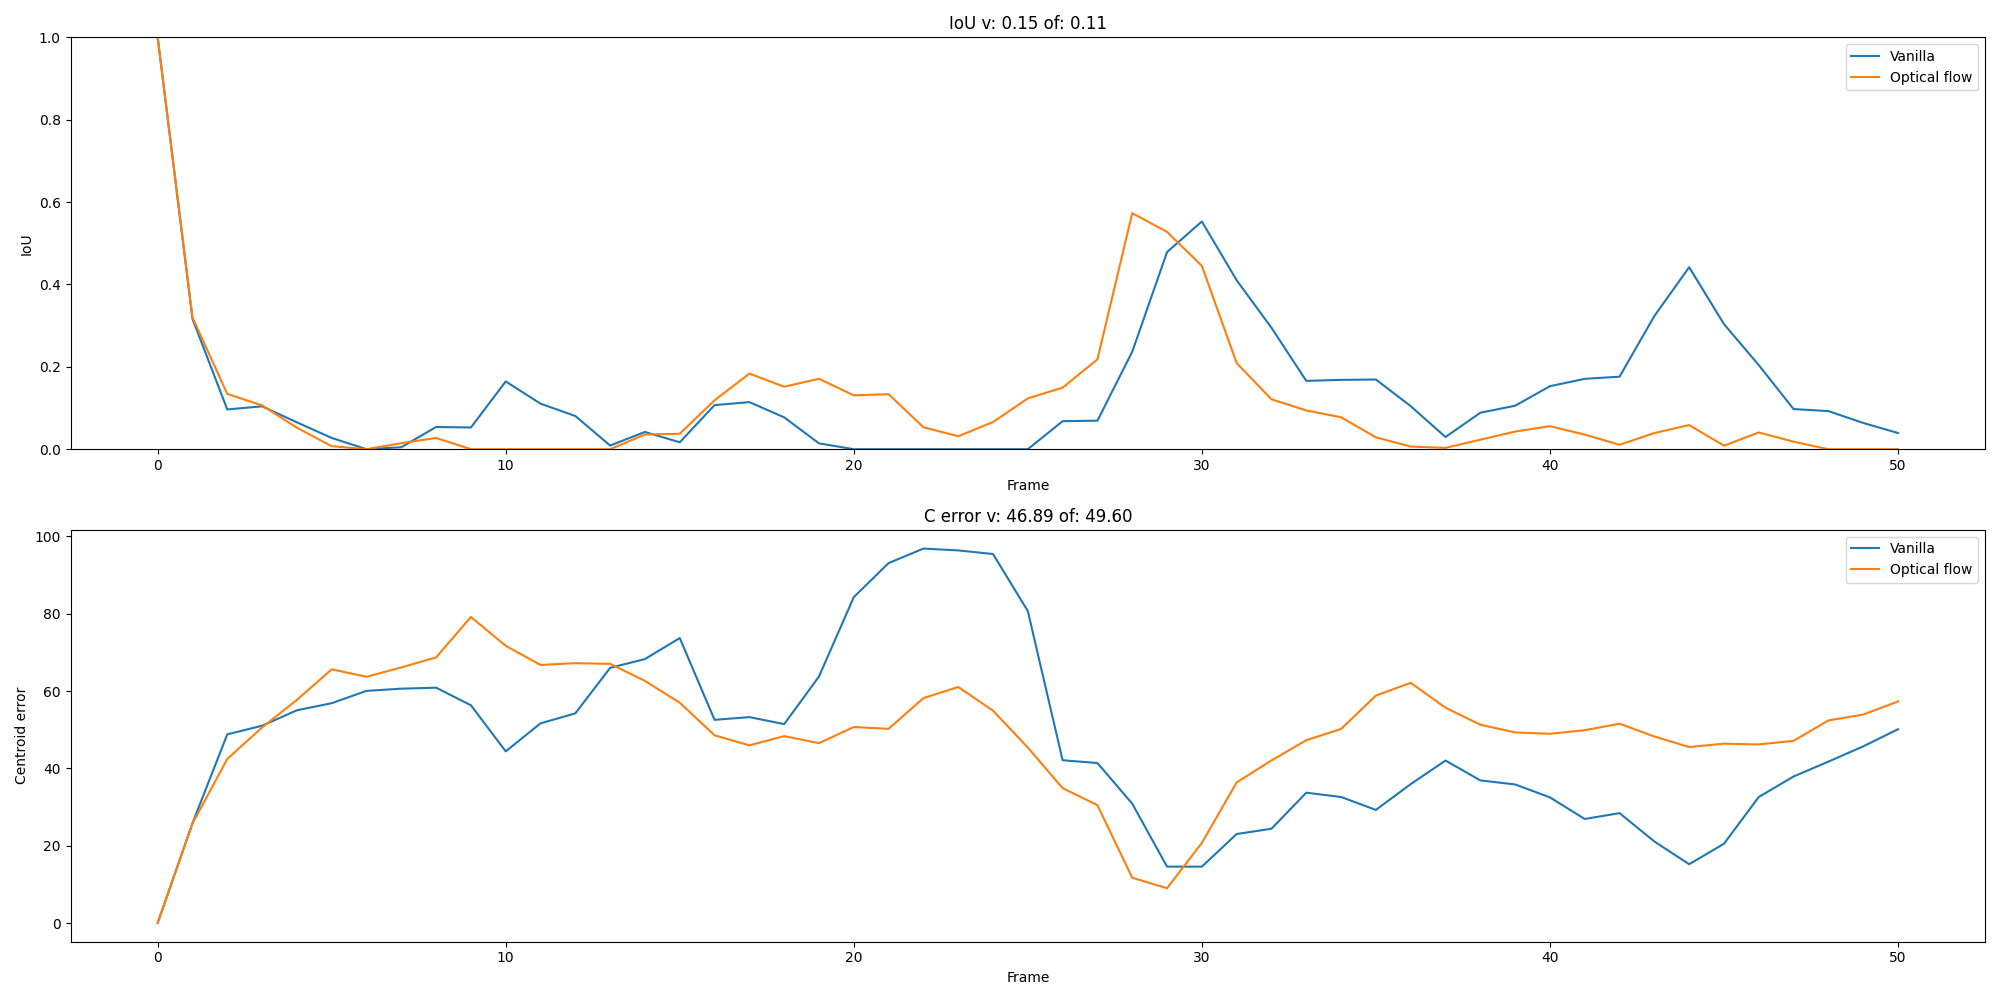
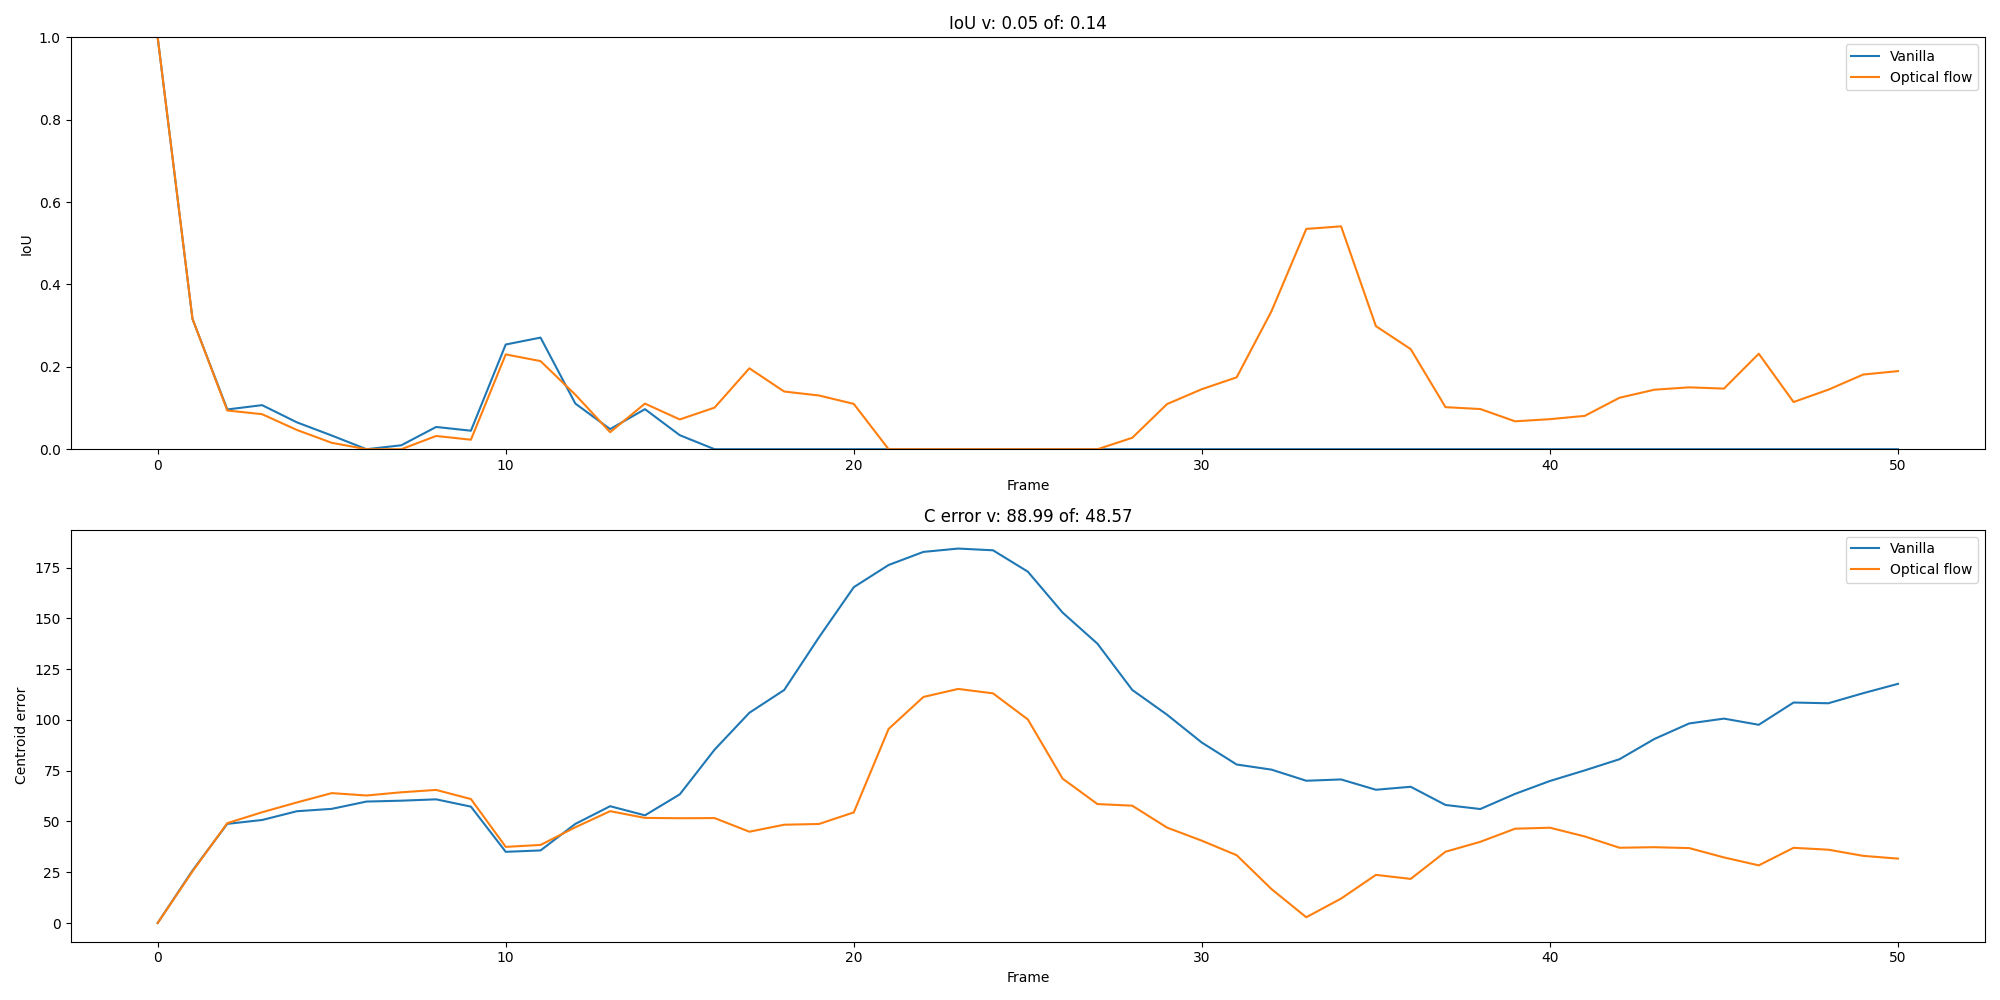
gta results

diff --git a/eval.py b/eval.py
@@ -38,7 +38,8 @@ def main(path="sequences-train",
     model.eval()
     
     tracker_vanilla = Tracker(model, optical_flow=None)
-    target_size = (32, 32) if model_type == "GoNet" else (64, 64)
+    #target_size = (32, 32) if model_type == "GoNet" else (50,50)
+    target_size = (32,32)
     tracker_of = Tracker(model, optical_flow="tvl1", target_size=target_size)
     
     annotations = utils.load_sequences(path)
@@ -99,7 +100,7 @@ def main(path="sequences-train",
         ious_v = np.array(ious_v)
         ious_of = np.array(ious_of)
 
-        print(f"IoU v: {np.mean(ious_v):.2f} of: {np.mean(ious_of):.2f}")
+        print(f"IoU v: {np.mean(ious_v):.2f} / of: {np.mean(ious_of):.2f}")
         
         centroid_errors_v = np.array(centroid_errors_v)
         centroid_errors_of = np.array(centroid_errors_of)  
